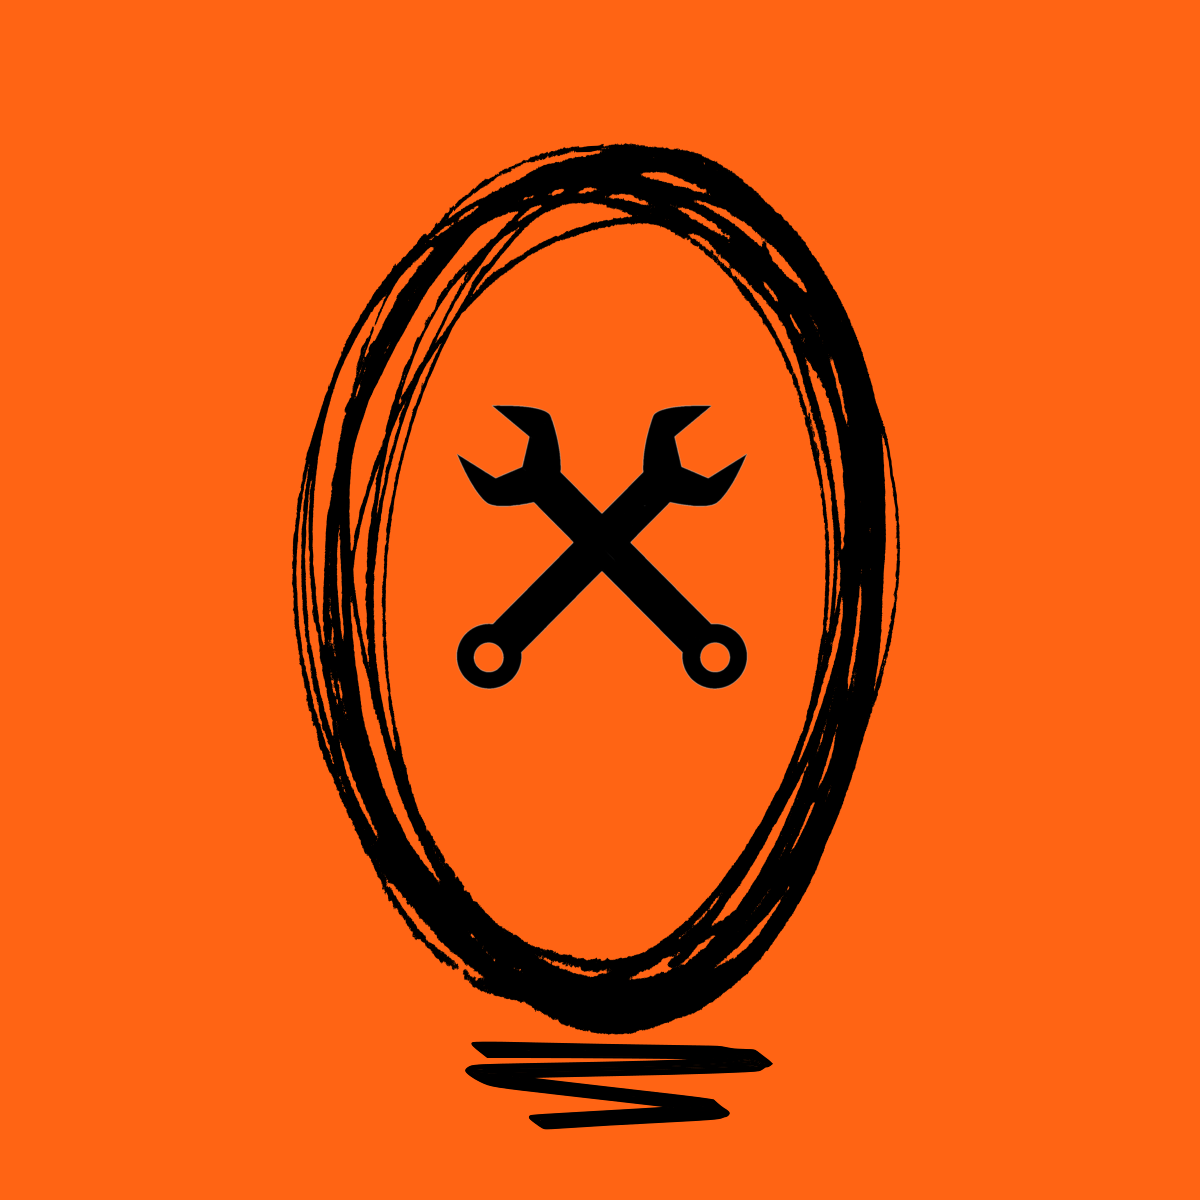
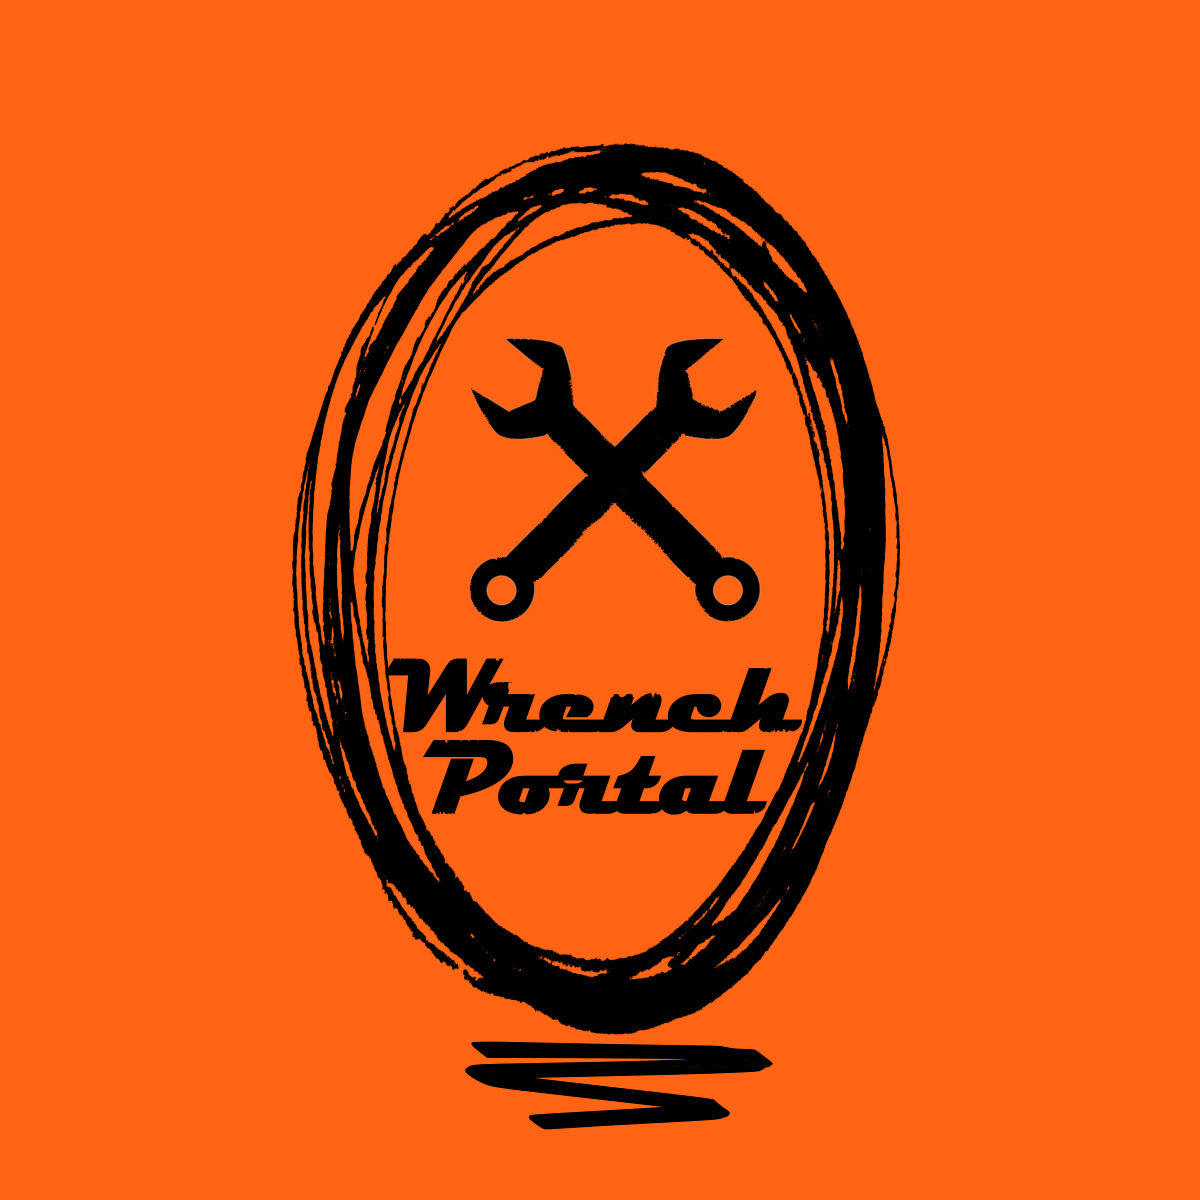
Updated portfolio with WrenchPortal.

Changed region(s): [[0.3083, 0.2775, 0.6783, 0.6783], [0.6167, 0.3083, 0.6475, 0.3392]]

diff --git a/src/components/Portfolio.js b/src/components/Portfolio.js
@@ -9,7 +9,7 @@ const Portfolio = () => {
         {image: codergrindCover, link: 'https://codergrind.onrender.com/'},
         {image: weatherOnRailsCover, link: 'https://weather-on-rails.onrender.com/'},
         {image: cryptoPortfolioCover, link: 'https://cryptoportfolio-exe.onrender.com/'},
-        {image: wrenchPortalCover, link: ''}
+        {image: wrenchPortalCover, link: 'https://wrenchportal.onrender.com/services'}
     ];
 
   return (
